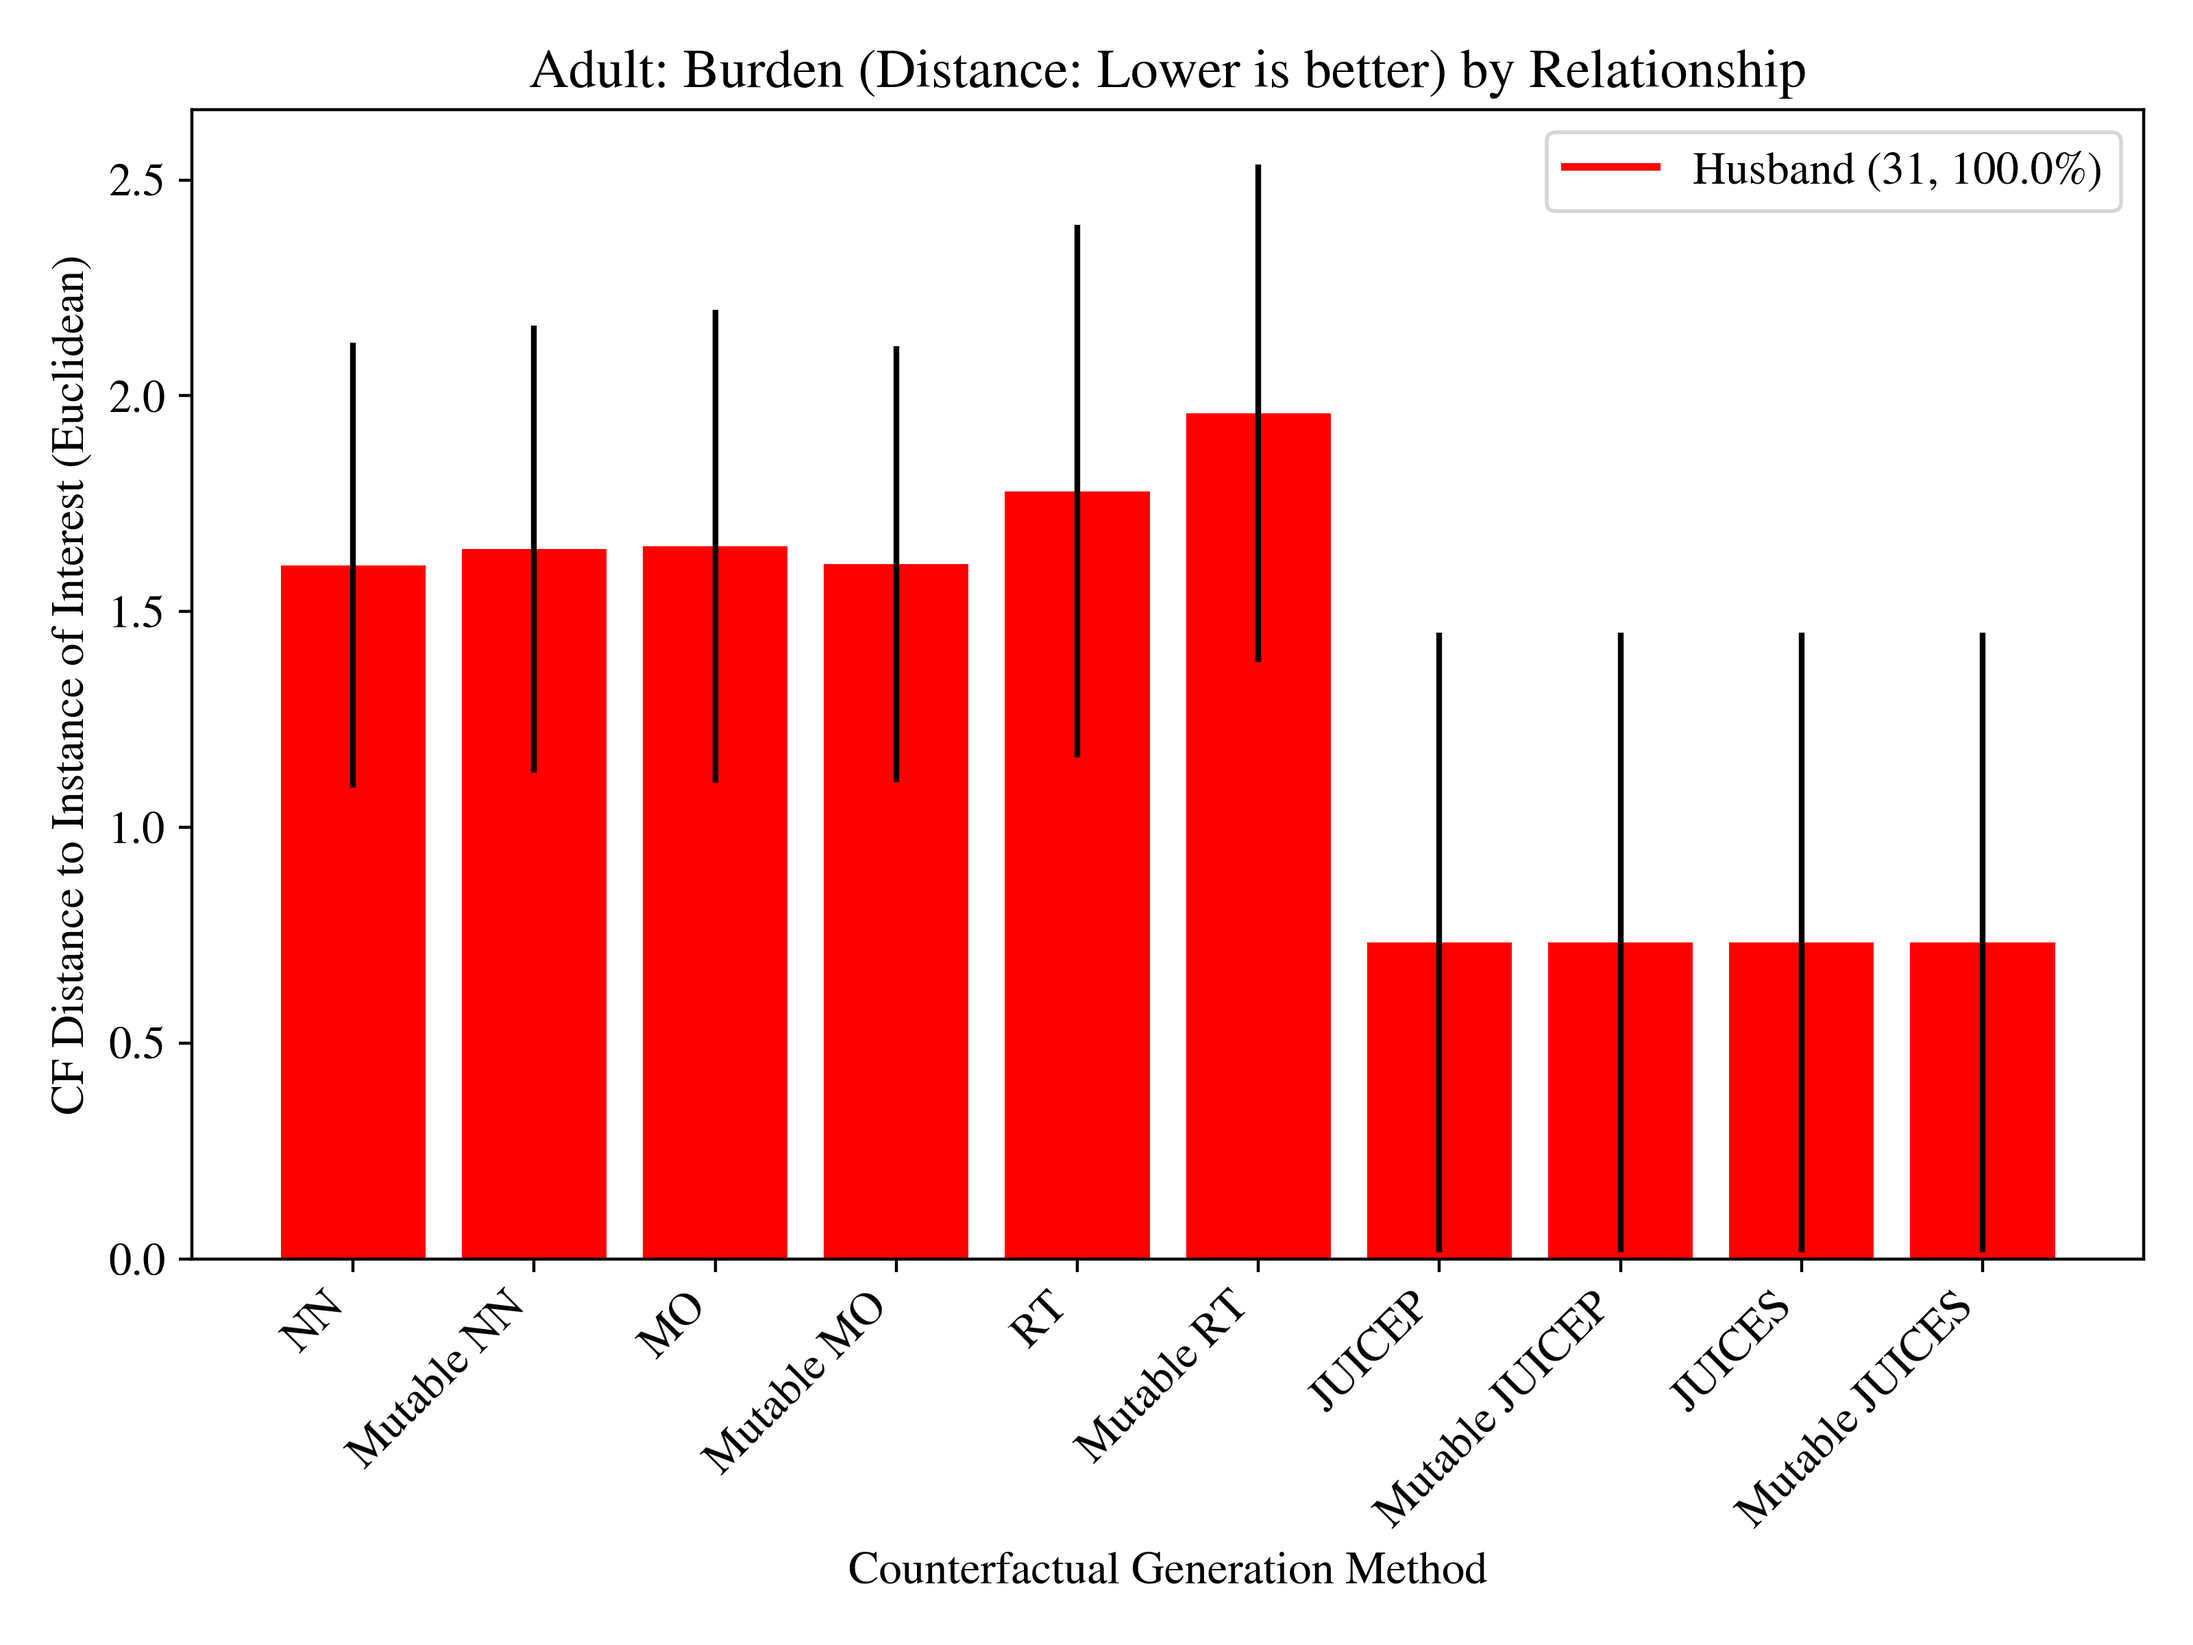
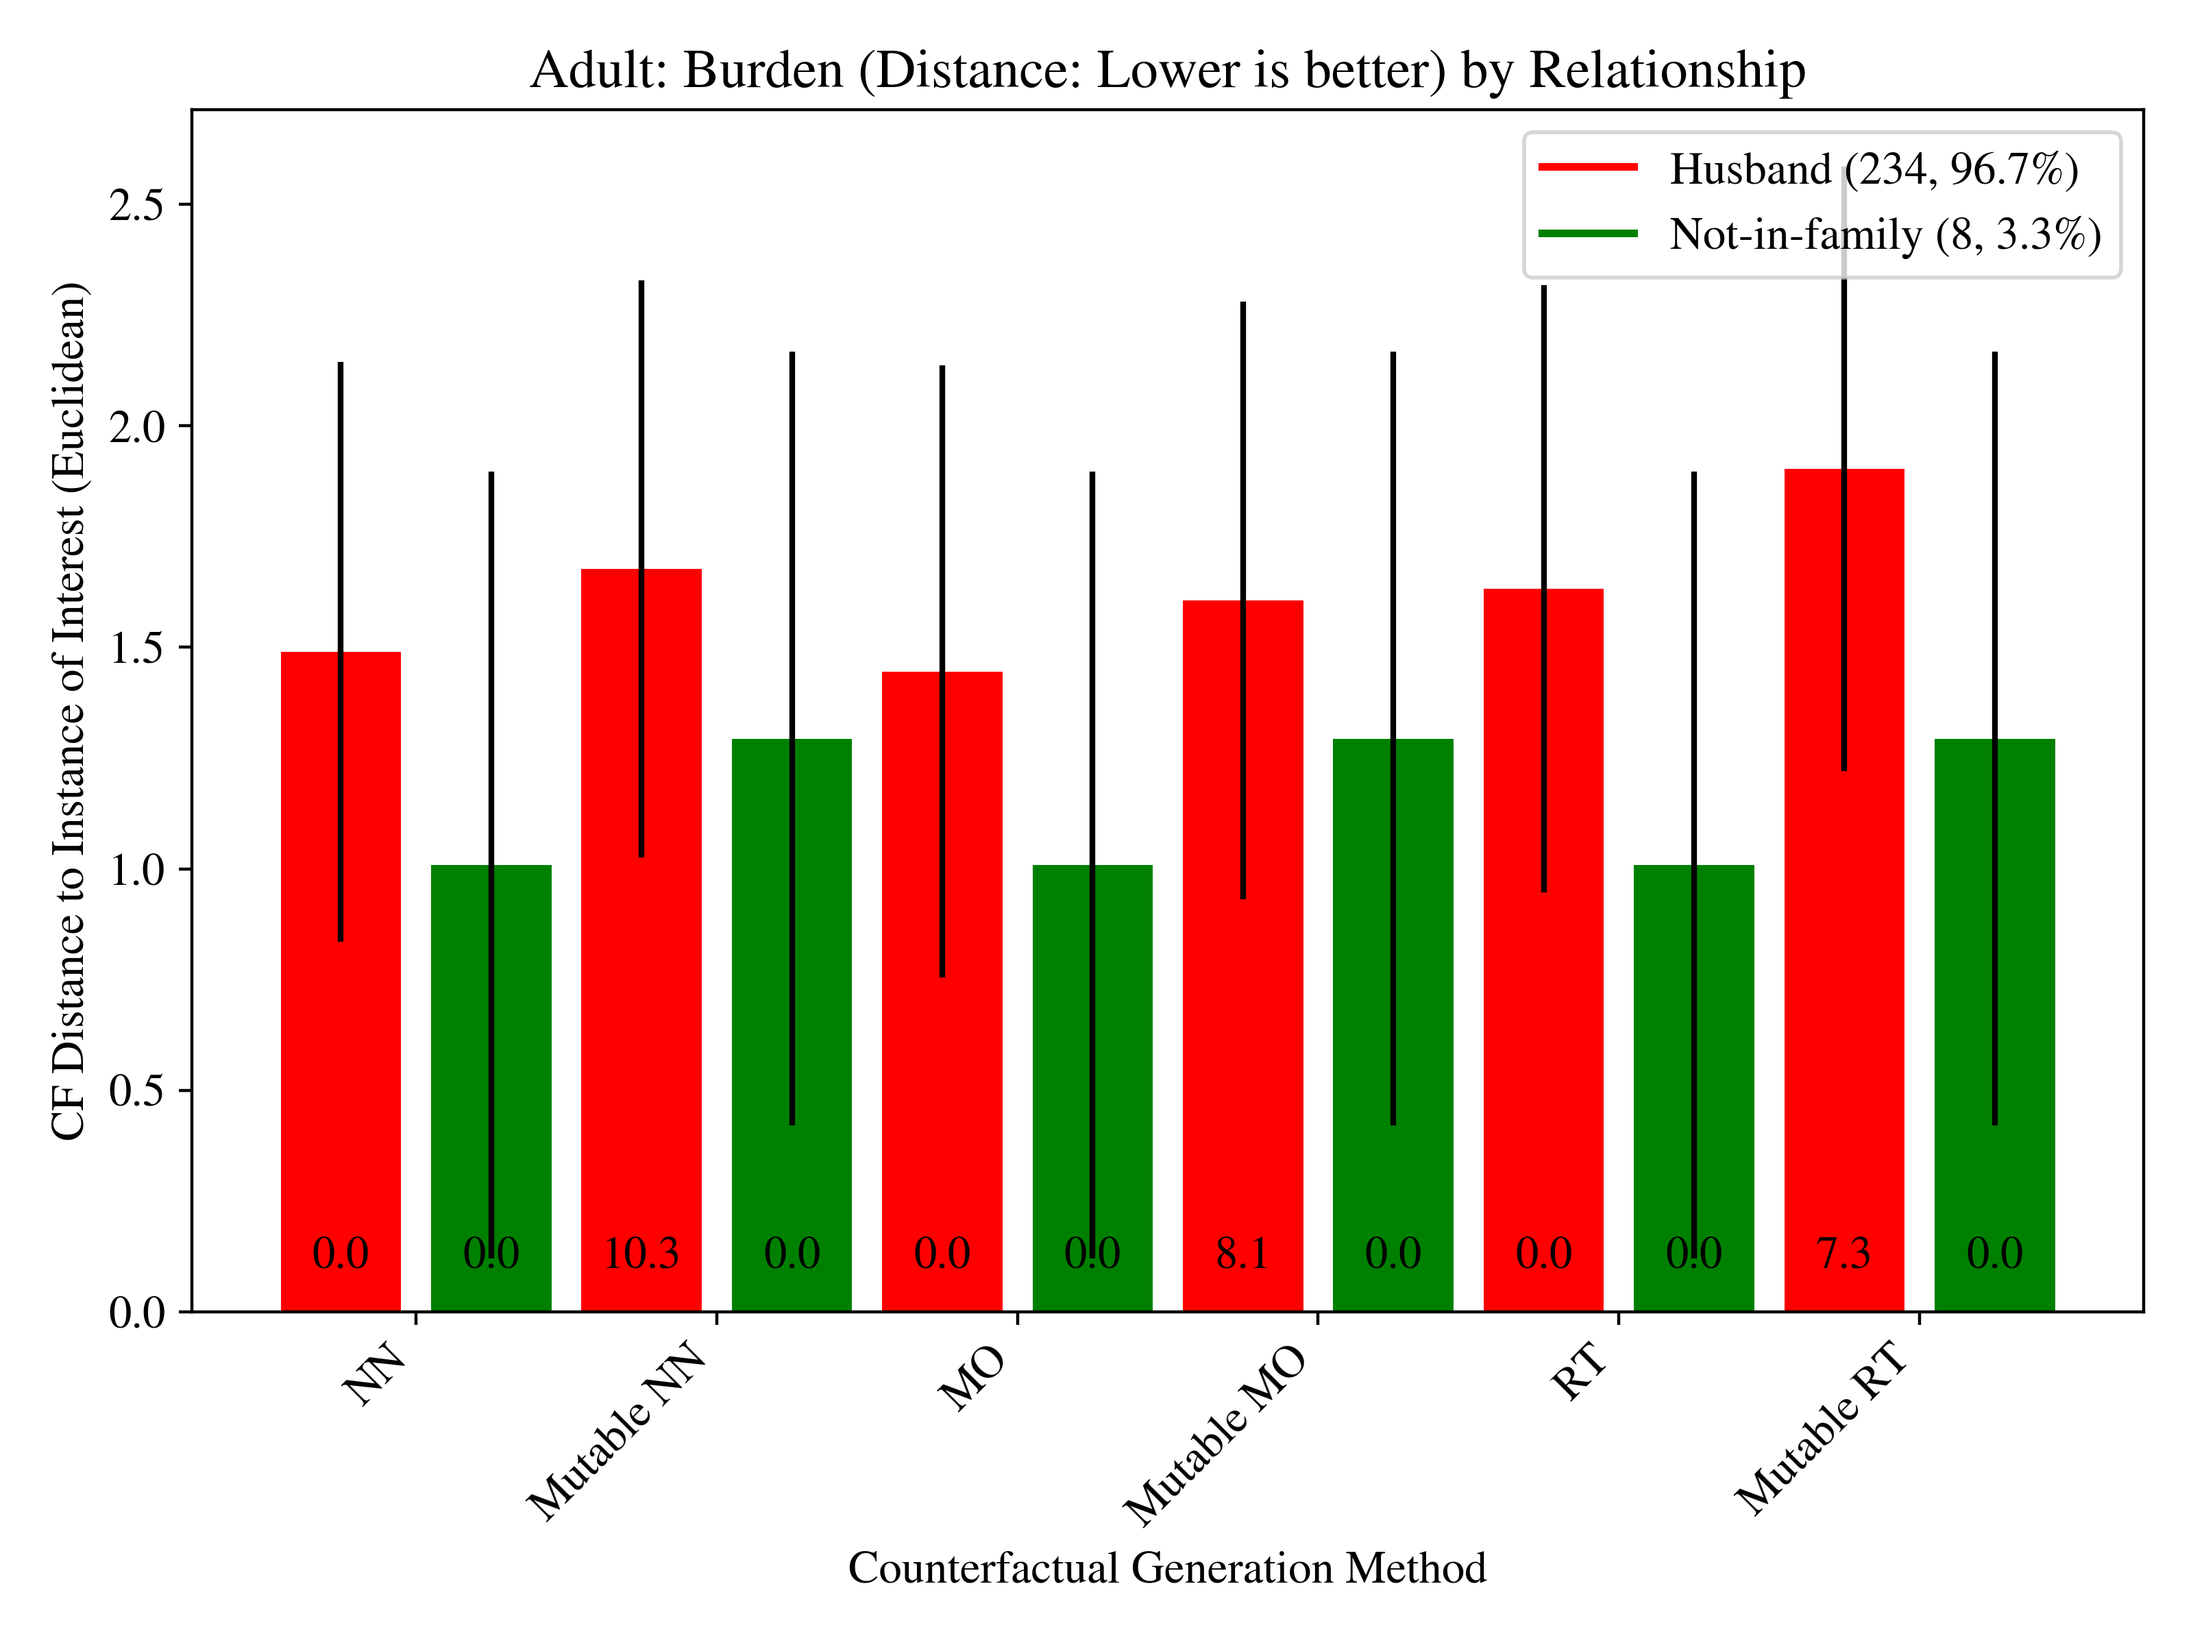
Additional insights into the models behavior required about counterfactual fairness

diff --git a/fairness_evaluator.py b/fairness_evaluator.py
@@ -54,12 +54,12 @@ def extract_changed_values_ratio(x_df, cf_df, method, feat, idx_list):
     Method that extracts the ratio of values changed for all sensitive features, for each method
     """
     cf_method_df = cf_df[cf_df['cf_method'] == method]
-    total_instances = len(x_idx)
+    total_instances = len(idx_list)
     counter_changed = 0
     for idx in idx_list:
         x_idx = x_df[x_df['instance_index'] == idx]
         cf_idx = cf_method_df[cf_method_df['instance_index'] == idx]
-        if x_idx[feat] != cf_idx[feat]:
+        if x_idx[feat].values != cf_idx[feat].values:
             counter_changed += 1
     return counter_changed / total_instances
 
@@ -196,7 +196,7 @@ def metric_differences_plot(datasets, methods_to_run, cf_metrics, colors):
                         for feat_idx in range(len(feat_unique_val)):
                             # feat_metric_method_values = extract_values_labels(cf_df, method, feat, feat_unique_val[feat_idx], idx_feat_values[feat_idx], metric)
                             feat_metric_method_values = extract_values_labels(cf_df, method, idx_feat_values[feat_idx], metric)
-                            feat_ratio_values_changed = extract_changed_values_ratio(x_df, cf_df, method, feat, idx_feat_values[feat_idx], metric)
+                            feat_ratio_values_changed = extract_changed_values_ratio(x_df, cf_df, method, feat, idx_feat_values[feat_idx])
                             method_feat_ratio_list.append(feat_ratio_values_changed)
                             metric_feat_mean_list.append(np.mean(feat_metric_method_values))
                             metric_feat_std_list.append(np.std(feat_metric_method_values,ddof=1))
@@ -206,15 +206,15 @@ def metric_differences_plot(datasets, methods_to_run, cf_metrics, colors):
                     fig, ax = plt.subplots(figsize=(8,6))
                     ax_plot = ax.bar(xaxis_pos_bars, metric_feat_mean_list, yerr=metric_feat_std_list, color = colors_plot)
                     counter = 0
-                    for pl in ax_plot:
-                        pl.text(x=pl.get_x() + pl.get_width()/2, y=0.1, s=f'({np.round(feat_ratio_values_changed[counter]*100,1)}%)', ha='center')
+                    for pl in ax_plot: #f'({np.round(feat_ratio_values_changed[counter]*100,1)}%)'
+                        ax.text(x=pl.get_x() + pl.get_width()/2, y=0.1, s='{}'.format(np.round(method_feat_ratio_list[counter]*100,1)), ha='center')
                         counter += 1
-                    ax_plot.set_xticks(xaxis_pos_labels, labels=metric_feat_labels)
-                    ax_plot.set_xticklabels(metric_feat_labels, rotation = 45, ha="right")
-                    ax_plot.legend(handles=legend_elements)
-                    ax_plot.set_title(f'{dataset_names[data_str]}: {metric_names[metric]} by {feat_name}')
-                    ax_plot.set_ylabel('CF Distance to Instance of Interest (Euclidean)')
-                    ax_plot.set_xlabel('Counterfactual Generation Method')
+                    ax.set_xticks(xaxis_pos_labels, labels=metric_feat_labels)
+                    ax.set_xticklabels(metric_feat_labels, rotation = 45, ha="right")
+                    ax.legend(handles=legend_elements)
+                    ax.set_title(f'{dataset_names[data_str]}: {metric_names[metric]} by {feat_name}')
+                    ax.set_ylabel('CF Distance to Instance of Interest (Euclidean)')
+                    ax.set_xlabel('Counterfactual Generation Method')
                     plt.tight_layout()
                     plt.savefig(results_cf_plots_dir+f'{data_str}_{feat_name}_{metric}_fairness.png',dpi=400)
 
@@ -267,8 +267,8 @@ def accuracy_differences_plot(datasets, methods_to_run, cf_metrics, colors):
                     ax.set_xlabel('Counterfactual Generation Method')
                     plt.savefig(results_cf_plots_dir+f'{data_str}_{feat_name}_{metric}_fairness.png',dpi=400)
 
-datasets = ['compass','adult']  # Name of the dataset to be analyzed ['compass','credit','adult','german','heart']
-methods_to_run = ['nn','mutable-nn','mo','mutable-mo','rt','mutable-rt','jce_prox','mutable_jce_prox'] #['nn','mo','ft','rt','gs','face','dice','mace','cchvae','juice']
+datasets = ['compass','adult']  # Name of the dataset to be analyzed ['compass','credit','adult','german','heart'] ,'jce_prox','mutable_jce_prox'
+methods_to_run = ['nn','mutable-nn','mo','mutable-mo','rt','mutable-rt'] #['nn','mo','ft','rt','gs','face','dice','mace','cchvae','juice']
 colors = ['red', 'green', 'blue', 'pink', 'gold', 'cyan']
 cf_metrics = ['proximity']
 
